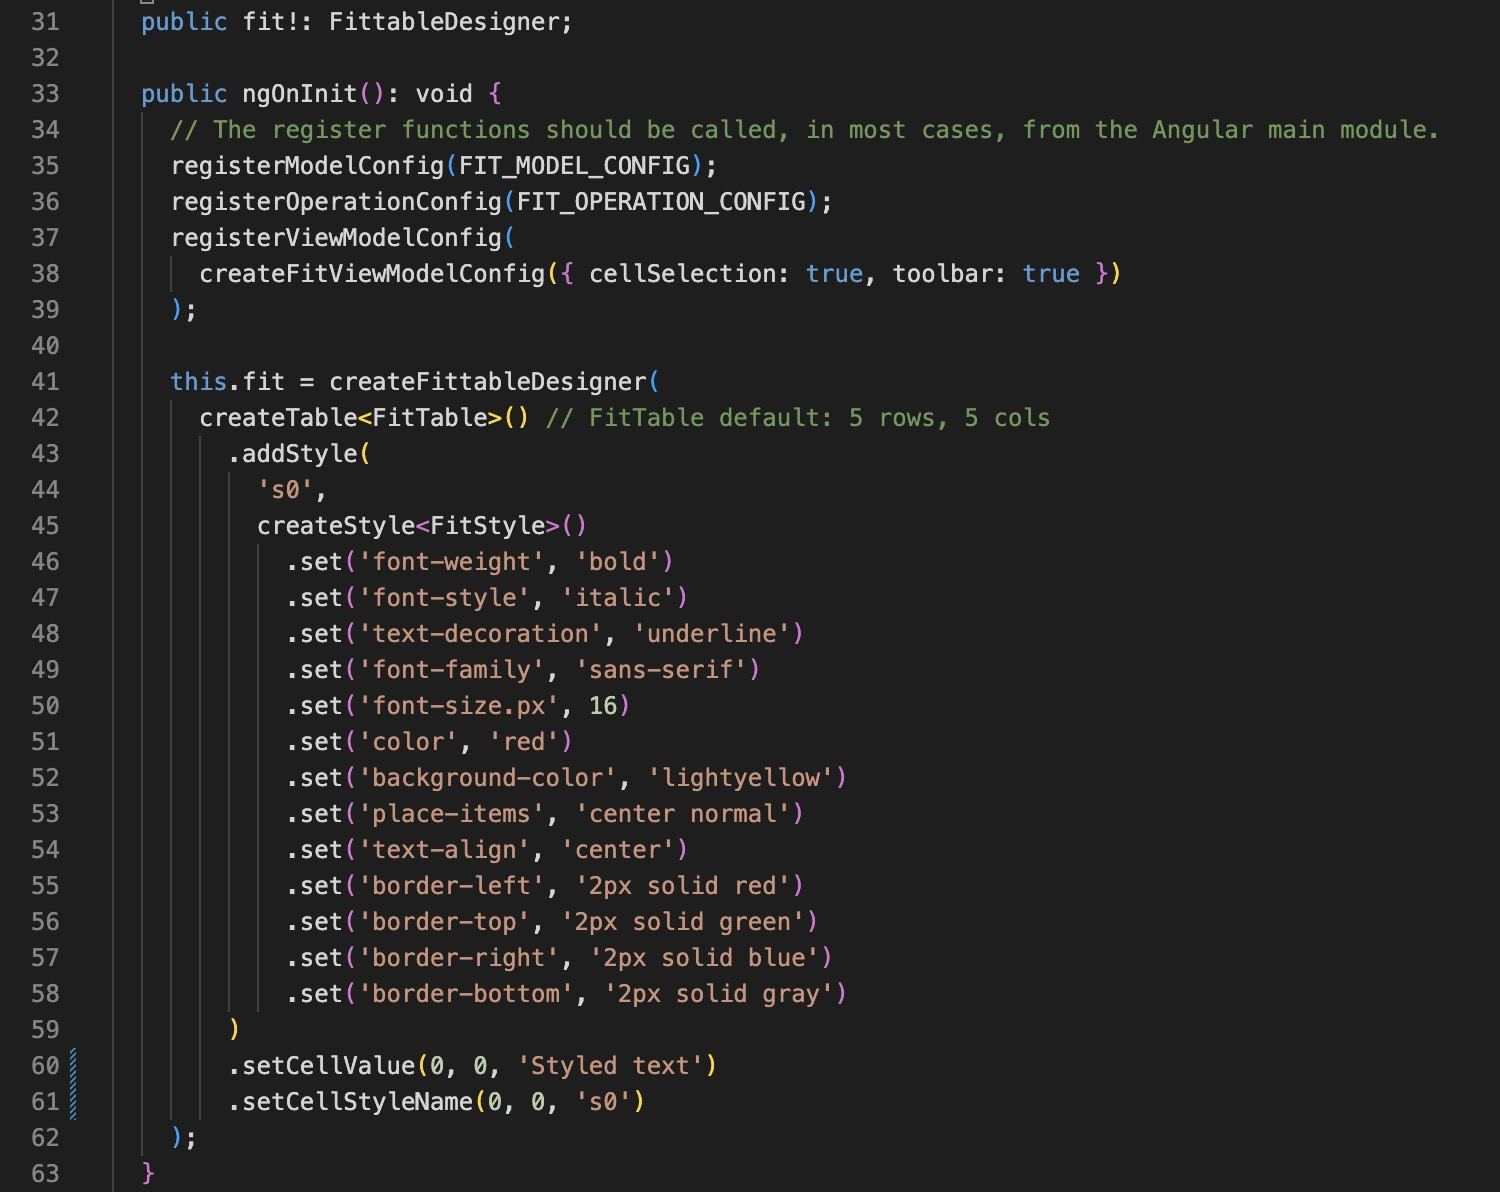
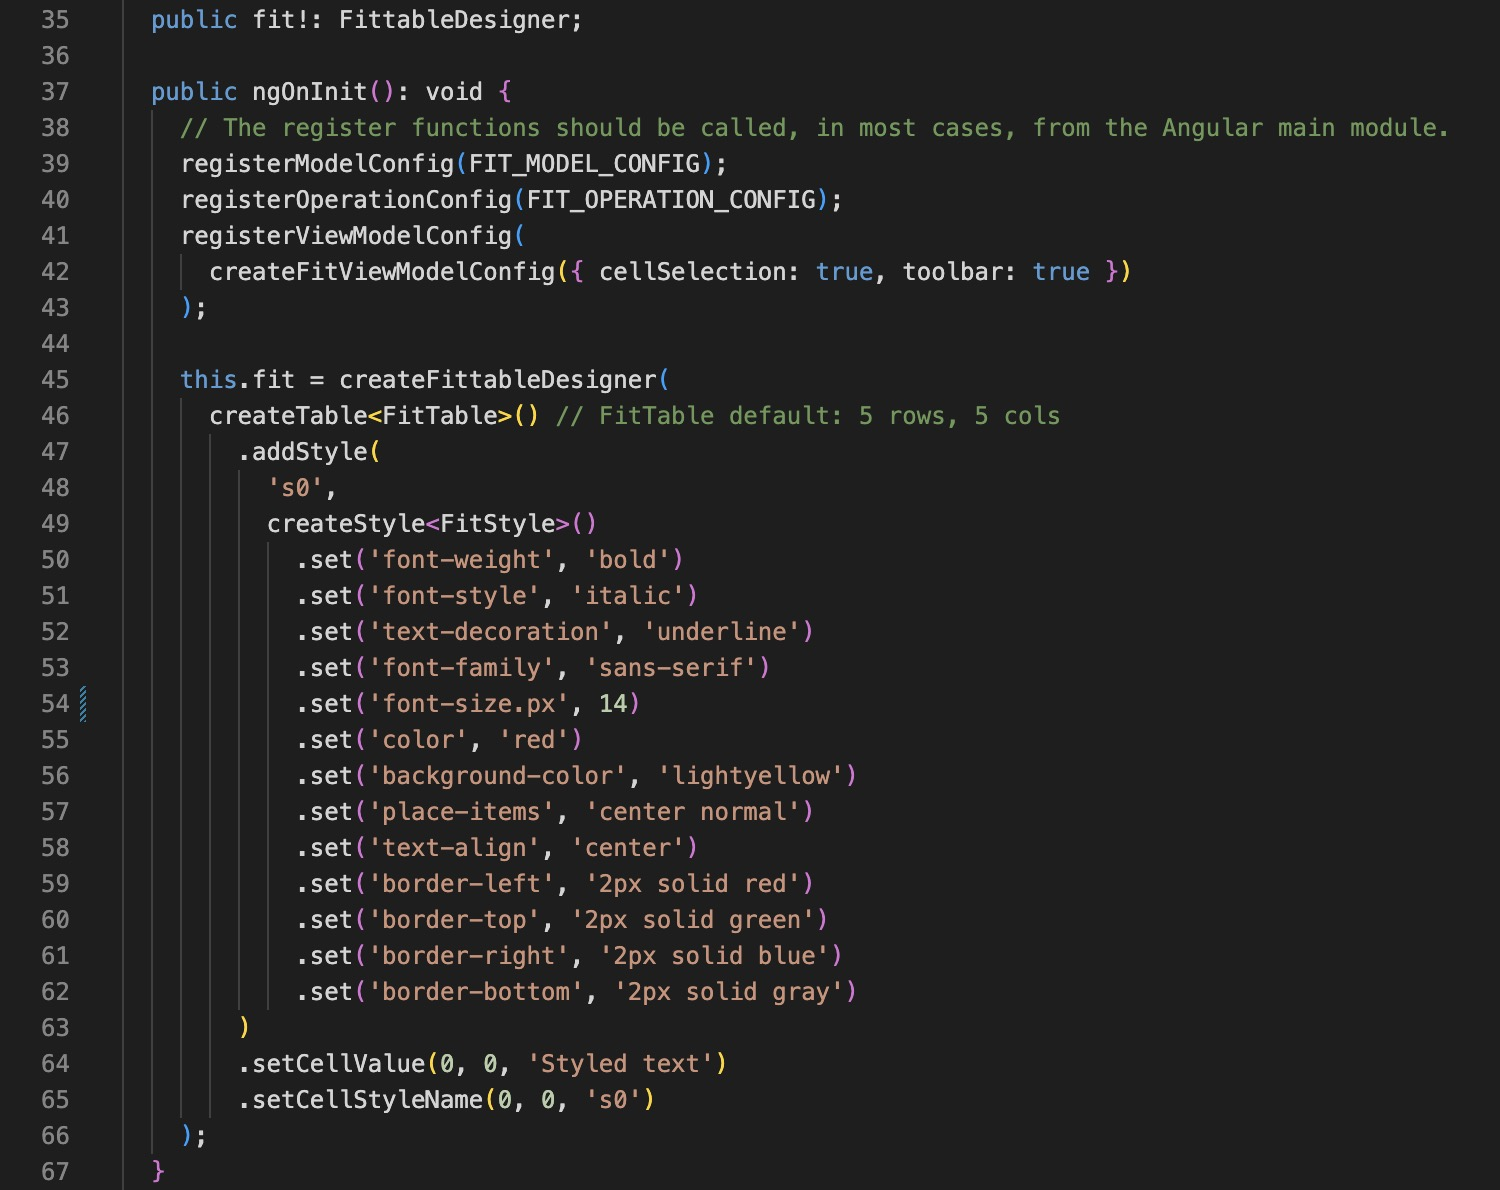
Add padding to table cells.

diff --git a/angular-app/ngx-fittable-docs/src/app/topics/table-model/cell-style.component.ts b/angular-app/ngx-fittable-docs/src/app/topics/table-model/cell-style.component.ts
@@ -51,7 +51,7 @@ export class CellStyleComponent implements SimpleTopic, OnInit {
             .set('font-style', 'italic')
             .set('text-decoration', 'underline')
             .set('font-family', 'sans-serif')
-            .set('font-size.px', 16)
+            .set('font-size.px', 14)
             .set('color', 'red')
             .set('background-color', 'lightyellow')
             .set('place-items', 'center normal')

diff --git a/angular-lib/projects/fittable-angular/src/lib/table-view/common/css/table-common.css b/angular-lib/projects/fittable-angular/src/lib/table-view/common/css/table-common.css
@@ -39,13 +39,12 @@
   right: 0px;
   bottom: 0px;
   margin: 0px;
-  padding: 0px;
+  padding: 2px;
   display: grid;
   place-items: inherit;
   text-decoration: inherit;
   box-sizing: border-box;
   white-space: break-spaces;
-  word-break: break-all;
   overflow: hidden;
   overflow-y: auto;
   scrollbar-width: none;

diff --git a/angular-lib/projects/fittable-angular/src/lib/controls-view/cell-editor/cell-editor.component.css b/angular-lib/projects/fittable-angular/src/lib/controls-view/cell-editor/cell-editor.component.css
@@ -12,7 +12,7 @@
 .cell-editor-input {
   position: absolute;
   margin: 0px;
-  padding: 0px;
+  padding: 2px;
   font-size: var(--font-size);
   font-family: Arial, Helvetica, sans-serif;
   background-color: var(--cell-editor-background-color);
